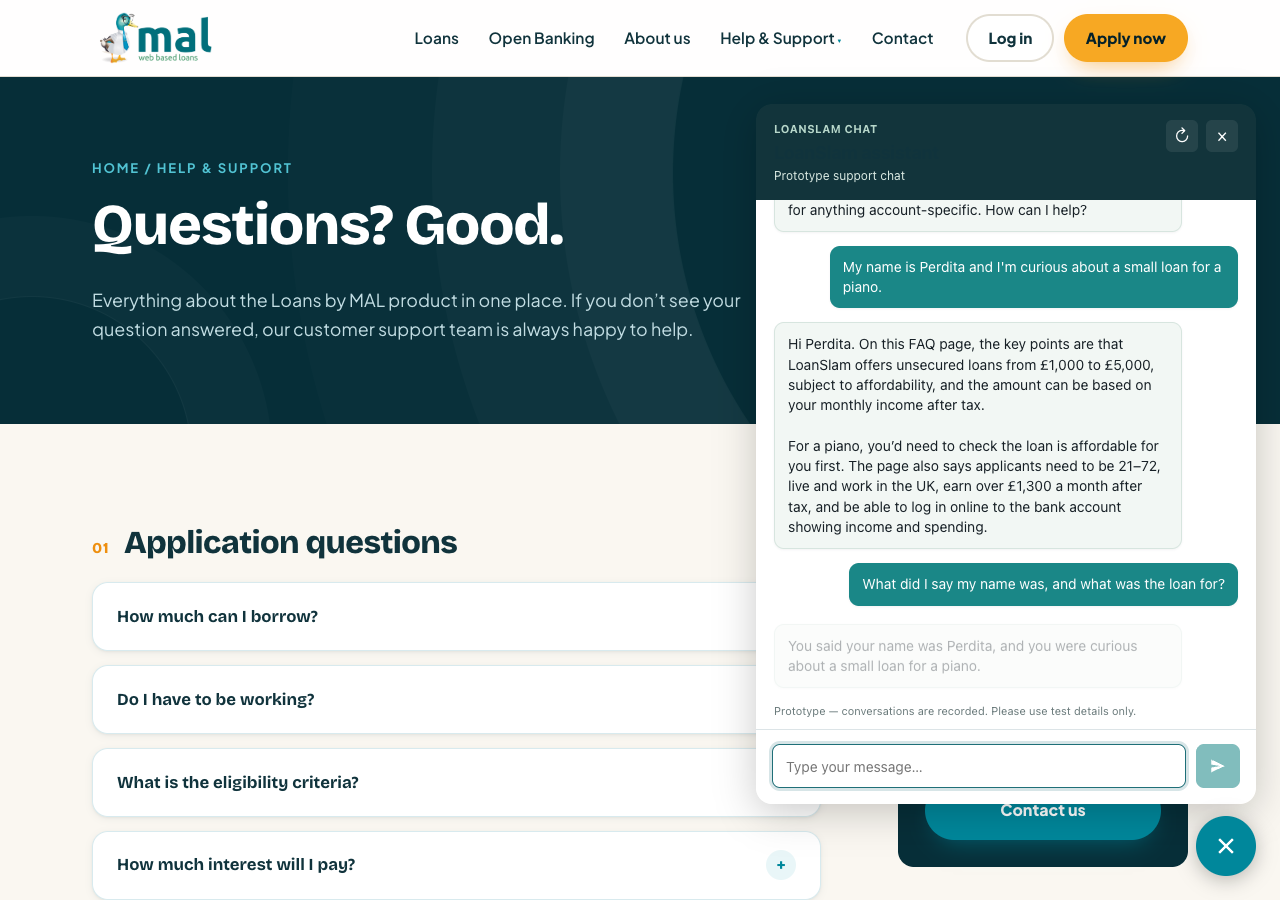
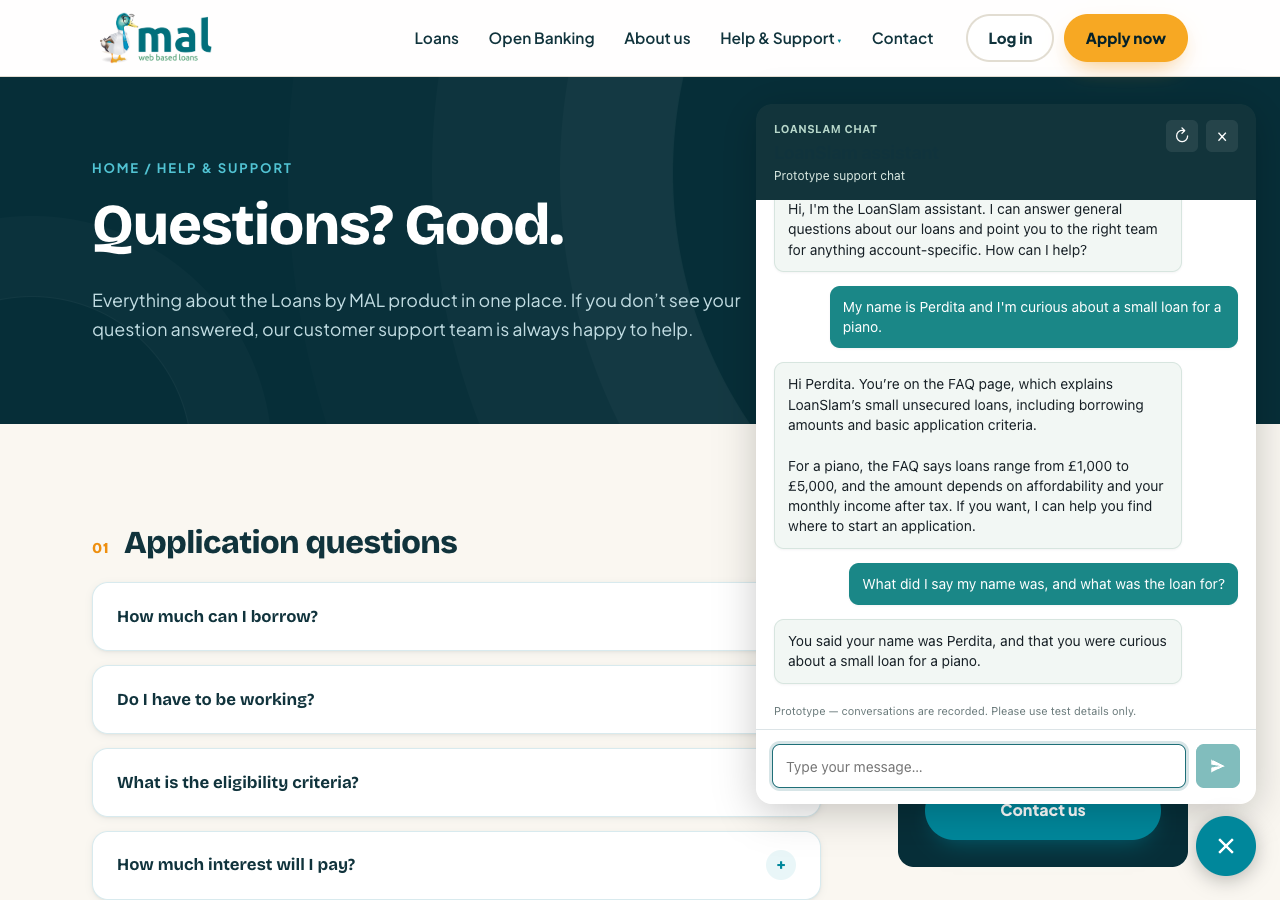
feat(site-nuxt): Stream concierge replies into the panel
The messages route gains opt-in SSE streaming (OpenAI Responses stream)
ending in a done frame with the whole reply; non-streaming JSON stays the
default and the engine path is untouched. The widget renders deltas into a
live bubble - thinking dots yield at the first delta - and drops a partial
bubble on mid-stream errors so the transcript holds only whole turns.
Validation still resolves before any bytes stream, so dr-001 resurrection
is unchanged (re-proven 4/4). The composer exposes data-sending and the
proof/rehearsal harnesses wait on turn-complete instead of dots-gone,
compatible with pre- and post-streaming builds. Proven live: 3/3 streaming
checks (40 growing partials), battery 9/9, rehearsal 6/6 locally.

Epic: demo-resilience / Slice: reply-streaming-01 / Arc: resilience-arc-001 / Campaign: demo-resilience-001 / Human checkpoint: campaign-closeout

Changed region(s): [[0.5938, 0.2178, 0.9688, 0.5911], [0.5938, 0.6844, 0.9062, 0.7467]]

diff --git a/packages/site-nuxt/components/ChatWidget.vue b/packages/site-nuxt/components/ChatWidget.vue
@@ -108,7 +108,11 @@
                 </div>
               </div>
             </li>
-            <li v-if="isSending" class="message message-assistant thinking-bubble" aria-label="Assistant is typing">
+            <li
+              v-if="isSending && streamingMessageId === null"
+              class="message message-assistant thinking-bubble"
+              aria-label="Assistant is typing"
+            >
               <span class="thinking-dots"><span></span><span></span><span></span></span>
             </li>
           </ul>
@@ -122,7 +126,11 @@
             Prototype — conversations are recorded. Please use test details only.
           </p>
 
-          <form class="composer" @submit.prevent="submitDraft">
+          <form
+            class="composer"
+            :data-sending="isSending ? 'true' : undefined"
+            @submit.prevent="submitDraft"
+          >
             <input
               ref="inputEl"
               v-model="draft"
@@ -159,11 +167,7 @@ import type {
   IpocSessionResponse,
   IpocSubmitIntakeResponse,
 } from '../../integrated-poc/shared/ipoc';
-import type {
-  ConciergeMessageResponse,
-  ConciergeSessionResponse,
-  ConciergeStatusResponse,
-} from '../lib/concierge';
+import type { ConciergeSessionResponse, ConciergeStatusResponse } from '../lib/concierge';
 import { snapshotApplicationForm } from '../lib/formSnapshot';
 import { snapshotPage } from '../lib/pageSnapshot';
 
@@ -226,6 +230,9 @@ const messages = ref<ChatMessage[]>([]);
 const sessionRef = ref<string | null>(null);
 const activeTicketId = ref<string | null>(null);
 const isSending = ref(false);
+// dr-002: id of the assistant message a reply is currently streaming into
+// (null when no stream is active — the thinking dots show instead).
+const streamingMessageId = ref<number | null>(null);
 const isChatComplete = ref(false);
 const errorMessage = ref('');
 const draft = ref('');
@@ -236,6 +243,11 @@ let nextId = 0;
 
 function pushMessage(role: ChatMessage['role'], text: string, ui: UiPlan | null = null): void {
   messages.value.push({ id: nextId++, role, text, ui });
+}
+
+function scrollToEnd(): void {
+  const element = scroller.value;
+  if (element) element.scrollTop = element.scrollHeight;
 }
 
 // dc2-003 (D046): the conversation survives full page loads via
@@ -404,34 +416,82 @@ function transcriptForResume(): Array<{ role: 'customer' | 'assistant'; content:
     .map((m) => ({ role: m.role, content: m.text }));
 }
 
-async function postConciergeMessage(ref: string, message: string, resume: boolean) {
-  return $fetch<ConciergeMessageResponse>(
-    `/api/concierge/sessions/${encodeURIComponent(ref)}/messages`,
-    {
-      method: 'POST',
-      body: {
-        message,
-        formState: isApplyRoute.value ? snapshotApplicationForm() : null,
-        pageContext: snapshotPage(route.path),
-        resumeTranscript: resume ? transcriptForResume() : null,
-      },
-    },
-  );
+// dr-002 (D047): concierge replies stream over SSE. Validation failures
+// (404/429/400) arrive as the response status before any bytes stream, so
+// the dr-001 resurrection path is unchanged. Resolves to the full reply;
+// onText receives the accumulated partial text as deltas arrive.
+async function streamConciergeMessage(
+  ref: string,
+  message: string,
+  resume: boolean,
+  onText: (text: string) => void,
+): Promise<string> {
+  const response = await fetch(`/api/concierge/sessions/${encodeURIComponent(ref)}/messages`, {
+    method: 'POST',
+    headers: { 'content-type': 'application/json' },
+    body: JSON.stringify({
+      message,
+      formState: isApplyRoute.value ? snapshotApplicationForm() : null,
+      pageContext: snapshotPage(route.path),
+      resumeTranscript: resume ? transcriptForResume() : null,
+      stream: true,
+    }),
+  });
+  if (!response.ok || !response.body) {
+    const failure = new Error(`The assistant request failed (${response.status}).`) as Error & {
+      statusCode?: number;
+    };
+    failure.statusCode = response.status;
+    throw failure;
+  }
+
+  const reader = response.body.getReader();
+  const decoder = new TextDecoder();
+  let buffer = '';
+  let accumulated = '';
+  let finalMessage: string | null = null;
+  for (;;) {
+    const { done, value } = await reader.read();
+    if (done) break;
+    buffer += decoder.decode(value, { stream: true });
+    let boundary = buffer.indexOf('\n\n');
+    while (boundary !== -1) {
+      const frame = buffer.slice(0, boundary);
+      buffer = buffer.slice(boundary + 2);
+      boundary = buffer.indexOf('\n\n');
+      const data = frame.split('\n').find((line) => line.startsWith('data: '));
+      if (!data) continue;
+      const payload = JSON.parse(data.slice(6)) as {
+        delta?: string;
+        done?: boolean;
+        message?: string;
+        error?: string;
+      };
+      if (payload.error) throw new Error(payload.error);
+      if (typeof payload.delta === 'string') {
+        accumulated += payload.delta;
+        onText(accumulated);
+      }
+      if (payload.done) finalMessage = payload.message ?? accumulated;
+    }
+  }
+  if (finalMessage === null) {
+    throw new Error('The assistant reply ended unexpectedly. Please try again.');
+  }
+  return finalMessage;
 }
 
-async function sendConciergeTurn(message: string): Promise<string> {
+async function sendConciergeTurn(message: string, onText: (text: string) => void): Promise<string> {
   const ref = await ensureConciergeSession();
   try {
-    const result = await postConciergeMessage(ref, message, false);
-    return result.assistant.message;
+    return await streamConciergeMessage(ref, message, false, onText);
   } catch (error) {
     // dr-001 (D047): the server lost this session (restart/redeploy). Open a
     // fresh one, replay our transcript as context, and retry the turn once.
     if ((error as { statusCode?: number }).statusCode !== 404) throw error;
     conciergeSessionRef.value = null;
     const freshRef = await ensureConciergeSession();
-    const result = await postConciergeMessage(freshRef, message, true);
-    return result.assistant.message;
+    return await streamConciergeMessage(freshRef, message, true, onText);
   }
 }
 
@@ -458,8 +518,31 @@ async function submit(
       // Concierge mode (D046): every route except /contact/ (the validated
       // engine keeps the support chat). Page snapshot as context; form
       // snapshot additionally on /apply/. No engine, no telemetry, no UiPlan.
-      const reply = await sendConciergeTurn(trimmed);
-      pushMessage('assistant', reply);
+      // dr-002 (D047): the reply streams into a live message bubble; the
+      // thinking dots yield to it at the first delta.
+      const reply = await sendConciergeTurn(trimmed, (text) => {
+        const streaming =
+          streamingMessageId.value === null
+            ? null
+            : messages.value.find((entry) => entry.id === streamingMessageId.value);
+        if (streaming) {
+          streaming.text = text;
+        } else {
+          pushMessage('assistant', text);
+          streamingMessageId.value = messages.value.at(-1)?.id ?? null;
+        }
+        scrollToEnd();
+      });
+      const streamed =
+        streamingMessageId.value === null
+          ? null
+          : messages.value.find((entry) => entry.id === streamingMessageId.value);
+      if (streamed) {
+        streamed.text = reply;
+      } else {
+        pushMessage('assistant', reply);
+      }
+      streamingMessageId.value = null;
       applyOfferMessageId.value = null;
       handoffOfferMessageId.value = /support team/i.test(reply)
         ? (messages.value.at(-1)?.id ?? null)
@@ -479,6 +562,13 @@ async function submit(
       : null;
     handoffOfferMessageId.value = null;
   } catch (error) {
+    // A reply that errored mid-stream leaves a partial bubble; drop it so
+    // the transcript (and any dr-001 replay of it) holds only whole turns.
+    if (streamingMessageId.value !== null) {
+      const index = messages.value.findIndex((entry) => entry.id === streamingMessageId.value);
+      if (index !== -1) messages.value.splice(index, 1);
+      streamingMessageId.value = null;
+    }
     errorMessage.value =
       error instanceof Error
         ? error.message
@@ -625,7 +715,9 @@ watch([isApplyRoute, isOpen, conciergeAvailable], () => {
 });
 
 watch(
-  () => [messages.value.length, sessionRef.value, conciergeSessionRef.value] as const,
+  // isSending is in the key so the send that finalizes a streamed reply
+  // (text mutation, no length change) still persists the finished turn.
+  () => [messages.value.length, sessionRef.value, conciergeSessionRef.value, isSending.value] as const,
   () => persistState(),
 );
 

diff --git a/packages/site-nuxt/server/api/concierge/sessions/[conversationRef]/messages.post.ts b/packages/site-nuxt/server/api/concierge/sessions/[conversationRef]/messages.post.ts
@@ -1,4 +1,4 @@
-import { createError, getRequestIP, readBody } from "h3";
+import { createError, getRequestIP, readBody, setResponseHeaders } from "h3";
 
 import {
   conciergeEnabled,
@@ -12,6 +12,7 @@ interface ConciergeMessageRequest {
   formState?: unknown;
   pageContext?: unknown;
   resumeTranscript?: unknown;
+  stream?: unknown;
 }
 
 export default defineEventHandler(async (event) => {
@@ -60,12 +61,45 @@ export default defineEventHandler(async (event) => {
         .map((entry) => ({ role: entry.role, content: entry.content }))
     : null;
 
-  const reply = await runConciergeTurn({
+  const turn = {
     session,
     message,
     formState: asObject(body.formState),
     pageContext: asObject(body.pageContext),
     resumeTranscript,
-  });
+  };
+
+  // dr-002 (D047): opt-in SSE streaming for the plain-text reply path. All
+  // request validation (kill switch, rate limit, 404, 400) happens above,
+  // before any bytes stream — the dr-001 resurrection path still sees a
+  // plain 404 status. Non-streaming JSON remains the default for scripts
+  // and API consumers.
+  if (body.stream === true) {
+    setResponseHeaders(event, {
+      "content-type": "text/event-stream",
+      "cache-control": "no-cache",
+    });
+    const encoder = new TextEncoder();
+    const frame = (payload: Record<string, unknown>) =>
+      encoder.encode(`data: ${JSON.stringify(payload)}\n\n`);
+    return new ReadableStream({
+      async start(controller) {
+        try {
+          const reply = await runConciergeTurn({
+            ...turn,
+            onDelta: (delta) => controller.enqueue(frame({ delta })),
+          });
+          controller.enqueue(frame({ done: true, conversationRef, message: reply }));
+        } catch {
+          controller.enqueue(
+            frame({ error: "The assistant hit a problem mid-reply. Please try again." }),
+          );
+        }
+        controller.close();
+      },
+    });
+  }
+
+  const reply = await runConciergeTurn(turn);
   return { conversationRef, assistant: { message: reply } };
 });

diff --git a/packages/site-nuxt/server/utils/concierge.ts b/packages/site-nuxt/server/utils/concierge.ts
@@ -113,12 +113,16 @@ export async function runConciergeTurn({
   formState,
   pageContext,
   resumeTranscript,
+  onDelta,
 }: {
   session: ConciergeSession;
   message: string;
   formState?: Record<string, unknown> | null;
   pageContext?: Record<string, unknown> | null;
   resumeTranscript?: Array<{ role: "customer" | "assistant"; content: string }> | null;
+  // dr-002 (D047): when provided, the reply streams and each text delta is
+  // forwarded as it arrives; the returned string is still the full reply.
+  onDelta?: (delta: string) => void;
 }): Promise<string> {
   // dr-001 (D047): session resurrection. If a lost server session was
   // reseeded on the client, seed this fresh session's history from the
@@ -153,14 +157,33 @@ export async function runConciergeTurn({
     });
   }
 
-  const response = await getClient().responses.create({
-    model: conciergeModel(),
-    instructions: CONCIERGE_INSTRUCTIONS,
-    input,
-    max_output_tokens: 400,
-  });
+  let reply: string;
+  if (onDelta) {
+    const stream = await getClient().responses.create({
+      model: conciergeModel(),
+      instructions: CONCIERGE_INSTRUCTIONS,
+      input,
+      max_output_tokens: 400,
+      stream: true,
+    });
+    let full = "";
+    for await (const chunk of stream) {
+      if (chunk.type === "response.output_text.delta") {
+        full += chunk.delta;
+        onDelta(chunk.delta);
+      }
+    }
+    reply = full.trim();
+  } else {
+    const response = await getClient().responses.create({
+      model: conciergeModel(),
+      instructions: CONCIERGE_INSTRUCTIONS,
+      input,
+      max_output_tokens: 400,
+    });
+    reply = response.output_text.trim();
+  }
 
-  const reply = response.output_text.trim();
   session.messages.push({ role: "assistant", content: reply });
   return reply;
 }

diff --git a/artifacts/demo-resilience/dr002-streaming-proof.md b/artifacts/demo-resilience/dr002-streaming-proof.md
@@ -1,0 +1,34 @@
+# dr-002 Reply Streaming Proof
+
+Date: 2026-07-02
+
+- Epic: demo-resilience / Slice: reply-streaming-01 / Arc:
+  resilience-arc-001 / Campaign: demo-resilience-001 (D047)
+
+## Change
+
+Concierge replies stream. The messages route gains an opt-in `stream: true`
+that returns SSE text deltas (OpenAI Responses streaming) ending in a
+`done` frame carrying the whole reply; non-streaming JSON stays the default
+for scripts and API consumers, and the engine path (/contact/) is untouched.
+The widget renders deltas into a live bubble — the thinking dots yield at
+the first delta — and drops a partial bubble if a stream errors mid-reply so
+the transcript (and any dr-001 replay) holds only whole turns. All request
+validation (kill switch, rate limit, 404, 400) still resolves before any
+bytes stream, so dr-001 resurrection semantics are unchanged. The composer
+exposes `data-sending` so harnesses wait for turn-complete rather than
+"thinking dots gone" (which streaming made ambiguous); the rehearsal
+harness was updated compatibly with both pre- and post-streaming builds.
+
+## Proof (local production-mode build under secrets, port 3641)
+
+- `node scripts/dr002-streaming-proof.mjs` — 3/3: 40 distinct growing
+  partial lengths observed in flight; partial text visible with dots gone
+  while still sending; final reply complete (866 chars).
+  Screenshots: `dr002-streaming/mid-stream.png`, `dr002-streaming/final.png`.
+- `node scripts/dr001-resurrection-proof.mjs` — 4/4 unregressed; recall
+  works with the streamed reply path.
+- `node scripts/sitenuxt-chat-battery.mjs` — 9/9; the non-streaming
+  structured engine path is unregressed.
+- `node scripts/concierge-rehearsal.mjs http://127.0.0.1:3641` — 6/6 beats
+  (full choreography including apply navigation and engine handoff).
